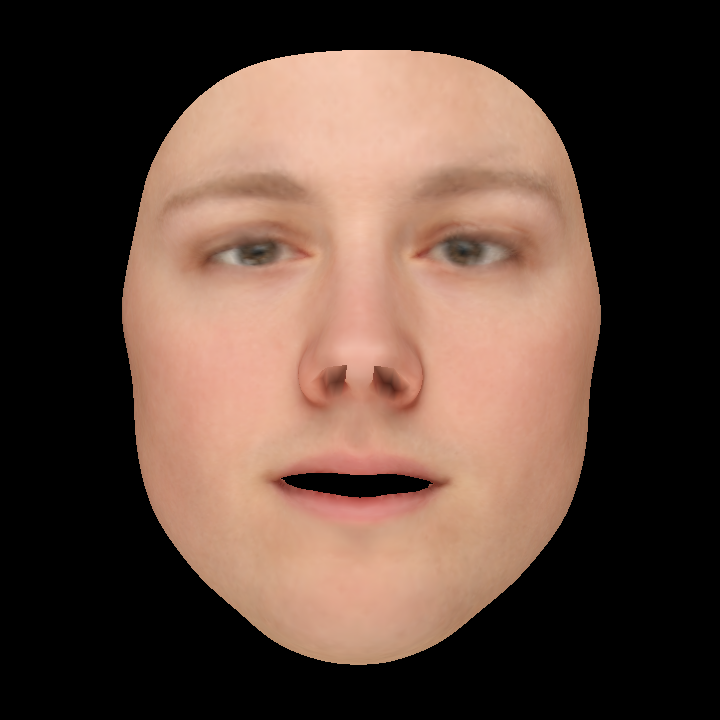
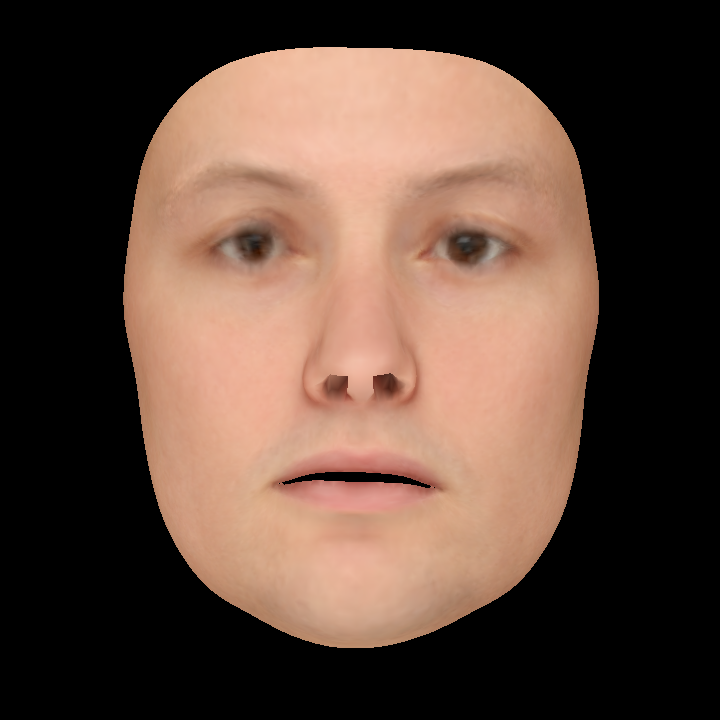
Minor

diff --git a/src/Face.h b/src/Face.h
@@ -104,12 +104,12 @@ public:
 	}
 
 	VectorXd calculateVerticesDefault() {
-		return faceModel.getShapeMean() + ((faceModel.getShapeVar().cwiseSqrt().asDiagonal() * faceModel.getShapeBasis().transpose()).transpose()) * alpha +
-			faceModel.getExpMean() + ((faceModel.getExpVar().cwiseSqrt().asDiagonal() * faceModel.getExpBasis().transpose()).transpose()) * gamma;
+		return faceModel.getShapeMean() + faceModel.getShapeBasis() * alpha +
+			faceModel.getExpMean() + faceModel.getExpBasis() * gamma;
 	}
 
 	VectorXd calculateColorsDefault() {
-		return faceModel.getColorMean() + ((faceModel.getColorVar().cwiseSqrt().asDiagonal() * faceModel.getColorBasis().transpose()).transpose()) * beta;
+		return faceModel.getColorMean() + faceModel.getColorBasis() * beta;
 	}
 private:
 	VectorXd alpha, beta, gamma;	// parameters to optimize

diff --git a/src/Optimizer.h b/src/Optimizer.h
@@ -173,7 +173,7 @@ public:
         // ...
         // SOLVE OPTIMIZATION
         ceres::Solver::Options options;
-        options.dense_linear_algebra_library_type = ceres::CUDA;
+        //options.dense_linear_algebra_library_type = ceres::CUDA;
         options.num_threads = omp_get_max_threads();
         options.max_num_iterations = 500;
         options.linear_solver_type = ceres::DENSE_QR;
